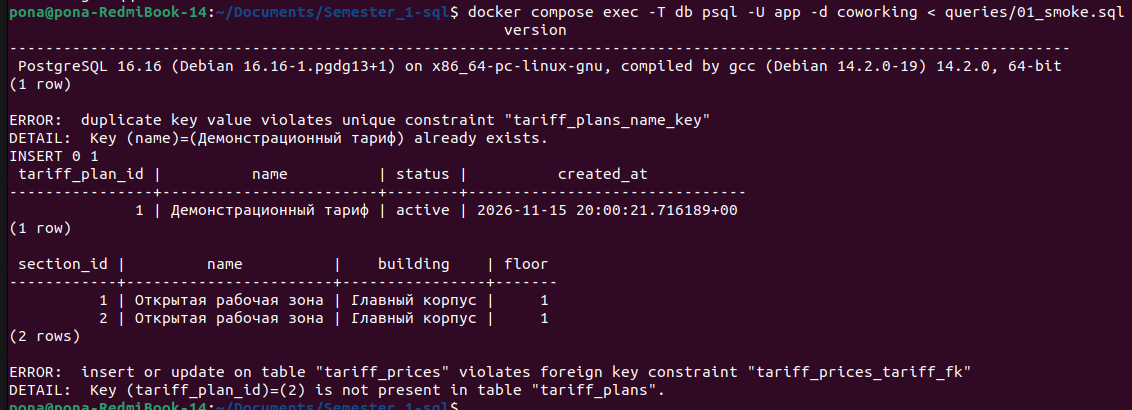
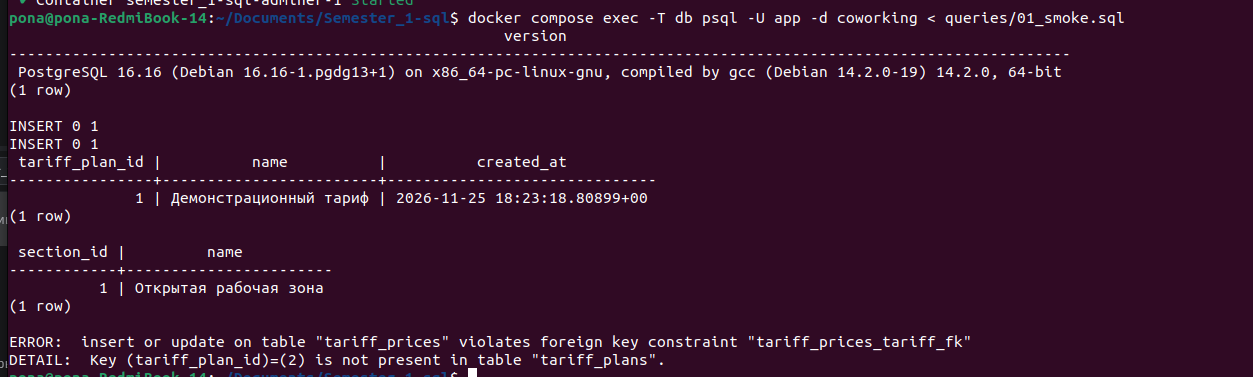
edit lab1

diff --git a/docs/requirements.md b/docs/requirements.md
@@ -19,8 +19,8 @@
 **Шаги:**
 1. Пользователь настраивает фильтры для поиска доступных мест, выбирая дату и время начала и окончания бронирования
 2. Сервис показывает доступные места с учетом выбранных фильтров и стоимость бронирования
-3. Пользователь выбирает место и подтверждает создание заявки на бронирование
-4. Система проверяет, доступно ли еще выбранное место для бронирования, в случае если недоступно - сообщает об этом пользователю и предлагает выбрать другое место для брони, иначе - сценарий переходит к следующему шагу
+3. Пользователь выбирает место и создает заявку на бронирование
+4. Система проверяет, доступно ли еще выбранное место для бронирования, в случае если недоступно - сообщает об этом пользователю и предлагает выбрать другое место для брони, возвращая новый список с учетом выставленных пользователем фильтров, иначе - сценарий переходит к следующему шагу
 5. Сервис перенаправляет пользователя на страницу оплаты бронирования и замораживает выбранное место на N минут
 6. Пользователь в течение N минут оплачивает услугу, иначе заморозка выбранного места сбрасывается
 
@@ -72,15 +72,15 @@
 1. Сотрудник находит бронирование клиента
 2. Система показывает сведения о бронировании и статус оплаты
 3. Сотрудник подтверждает приход клиента
-4. Система создаёт посещение, связанное с бронированием, и сохраняет фактические дату и время прихода
-5. При уходе клиента сотрудник открывает посещение и подтверждает уход
-6. Система сохраняет фактические дату и время ухода
+4. Система сохраняет дату и время прихода в бронировании
+5. При уходе клиента сотрудник открывает бронирование и подтверждает уход
+6. Система сохраняет дату и время ухода в бронировании
 
-**Результат:** Посещение клиента зарегистрировано, фактическое время прихода и ухода сохранено.
+**Результат:** В бронировании сохранены дата и время прихода и ухода клиента.
 
-**Граничный случай — повторная регистрация прихода:** если посещение для бронирования уже существует, система показывает его и не создаёт повторное посещение.
+**Граничный случай — повторная регистрация прихода:** если время прихода в бронировании уже заполнено, система показывает сохранённые данные и не изменяет время прихода.
 
-**Граничный случай — уход клиента не зарегистрирован:** если клиент ушёл из коворкинга, но не зарегистрировал уход у сотрудника ресепшена, по истечении срока бронирования система автоматически заполняет дату и время ухода в существующем посещении датой и временем окончания действия бронирования. Уже зарегистрированное время ухода не изменяется.
+**Граничный случай — уход клиента не зарегистрирован:** если клиент ушёл из коворкинга, но не зарегистрировал уход у сотрудника ресепшена, по истечении срока бронирования система автоматически заполняет дату и время ухода в бронировании датой и временем окончания его действия, только если приход зарегистрирован, а уход не зарегистрирован. Уже зарегистрированное время ухода не изменяется.
 
 ### Сценарий 5. Редактирование списка ролей пользователя
 
@@ -105,18 +105,22 @@
 ## Сущности и атрибуты
 | Сущность | Атрибуты | Предполагаемый ключ | Тип ключа|
 |---|---|---|---|
-| Пользователи | - ID пользователя<br/> - логин пользователя<br/> - ФИО пользователя<br/> - контактные данные пользователя<br/> | ID пользователя| Суррогатный |
+| Пользователи | - ID пользователя<br/> - логин пользователя<br/> - ФИО пользователя<br/> - контактный номер телефона<br/> - электронная почта<br/> | ID пользователя| Суррогатный |
 | Роли| - ID роли<br/> - название роли<br/>| ID роли| Суррогатный|
-| Роли пользователей | - ID роли<br/> - ID пользователя, получившего роль<br/> - ID пользователя, присвоившего роль<br/> - дата начала действия роли<br/> - дата окончания действия роли| ID роли, ID пользователя | Суррогатный|
+| Роли пользователей | - ID назначения роли пользователю (user_role_id)<br/> - ID роли<br/> - ID пользователя, получившего роль<br/> - ID пользователя, присвоившего роль<br/> - дата начала действия роли<br/> - дата окончания действия роли| ID назначения роли пользователю | Суррогатный|
 | Тарифные планы | - ID тарифного плана<br/> - Название тарифного плана<br/> - дата создания тарифного плана | ID тарифного плана| Суррогатный|
-| История изменения цен тарифных планов | - ID записи истории изменения цены<br/> - ID тарифного плана<br/> - цена<br/> - единица измерения цены<br/> - дата и время начала действия цены<br/> - дата и время окончания действия цены<br/> - дата создания записи | ID записи истории изменения цены | Суррогатный |
+| История изменения цен тарифных планов | - ID записи истории изменения цены<br/> - ID тарифного плана<br/> - цена<br/> - единица измерения цены<br/> - дата и время начала действия цены<br/> - дата и время окончания действия цены<br/> - ID пользователя, внесшего цену<br/> - дата создания записи | ID записи истории изменения цены | Суррогатный |
 | Места коворкинга | - ID места коворкинга<br/> - Название места коворкинга<br/> - ID секции коворкинга<br/> - актуальный статус места коворкинга (доступно, закрыто на обслуживание)<br/> - характеристики места (characteristics, JSONB): например, доступное оборудование — {"equipment": ["monitor", "docking_station"]}| ID места коворкинга| Суррогатный|
-| Секции коворкинга | - ID секции коворкинга<br/> - Название секции коворкинга<br/> - Здание коворкинга - Этаж коворкинга | ID секции коворкинга | Суррогатный|
-| Бронирования | - ID бронирования<br/> - ID пользователя<br/> - ID места коворкинга<br/> - начало действия бронирования<br/> - окончание действия бронирования<br/> - статус бронирования (действителен, в ожидании оплаты, отменен)<br/> - итоговая стоимость | ID бронирования | Суррогатный|
+| Секции коворкинга | - ID секции коворкинга<br/> - Название секции коворкинга | ID секции коворкинга | Суррогатный|
+| Бронирования | - ID бронирования<br/> - ID пользователя<br/> - ID места коворкинга<br/> - начало действия бронирования<br/> - окончание действия бронирования<br/> - статус бронирования (действителен, в ожидании оплаты, отменен)<br/> - итоговая стоимость<br/> - дата и время прихода<br/> - дата и время ухода | ID бронирования | Суррогатный|
 | Назначения тарифов местам | - ID назначения<br/> - ID тарифного плана<br/> - ID места коворкинга<br/> - дата и время начала действия назначения<br/> - дата и время окончания действия назначения<br/> - ID пользователя, назначившего тариф<br/> - дата создания назначения | ID назначения | Суррогатный |
 | Назначения тарифов секциям | - ID назначения<br/> - ID тарифного плана<br/> - ID секции коворкинга<br/> - дата и время начала действия назначения<br/> - дата и время окончания действия назначения<br/> - ID пользователя, назначившего тариф<br/> - дата создания назначения | ID назначения | Суррогатный |
 | Платежи | - ID платежа<br/> - ID бронирования<br/> - сумма платежа<br/> - статус платежа<br/> - дата создания платежа<br/> - дата успешной оплаты (при наличии) | ID платежа | Суррогатный |
-| Посещения | - ID посещения<br/> - ID бронирования<br/> - фактическая дата и время прихода<br/> - фактическая дата и время ухода (при наличии) | ID посещения | Суррогатный |
+
+Альтернативные ключи:
+
+- Роли пользователей — сочетание ID роли и ID пользователя, получившего роль (`role_id`, `user_id`).
+- Места коворкинга — сочетание названия места и ID секции (`name`, `section_id`).
 
 ## Связи и кардинальности
 Сущности "пользователи" и "роли" связаны с помощью сущности "роли пользователей" отношением M:N - у одного пользователя может быть несколько ролей и роль может одновременно принадлежать нескольким пользователям. Пользователь не может существовать без наличия какой-либо роли, роль в свою очередь может существовать без привязки к пользователю.
@@ -129,16 +133,18 @@
 
 Сущности «тарифный план» и «источрия изменения цен тарифных планов» связаны отношением 1:N. Тарифный план может существовать без цены, но бронирование нельзя создать на место, к которому прикреплен тарифный план без цены.
 
-Сущности "Посещения" и "Бронирования" связаны отношением 1:1, так как одно и то же посещение относится только к одному бронированию и 2 посещения на одно бронирования невозможно. Сущность посещение не может существовать без сущности бронирования, в то время как бронирование может существовать без наличия посещения.
+Сущности «Пользователи» и «История изменения цен тарифных планов» связаны отношением 1:N: пользователь может внести несколько записей о ценах или ни одной, каждая запись обязательно относится к одному пользователю, внёсшему цену (assigned_by).
 
 ## Бизнес-правила и ограничения
 1. Стоимость тарифного плана не может быть отрицательной
-2. Одновременно для одного тарифного плана не может действовать более 1 цены
-3. Не может существовать два и более тарифных плана с одинаковым названием
-4. Не может существовать два назначения тарифного плана секции или месту в коворкинге с пересекающимся периодом действия; однако может присутствовать пересечение периода действия тарифного плана А места в коворкинге с тарифным планом B секции, которой принадлежит данное место - в таком случае приоритетным является тарифный план места в коворкинге
-5. Не может существовать два пересекающихся бронирования одного и того же места в коворкинге
-6. Не может существовать два места в коворкинге в пределах одной секции с одинаковым названием
-7. Изменение цены тарифного плана не влияет на стоимость бронирований, созданных до ее изменения
+2. Одновременно для одного тарифного плана не может действовать более 1 цены.
+3. Изменение цены тарифного плана не влияет на стоимость бронирований, созданных до ее изменения
+4. Не может существовать два и более тарифных плана с одинаковым названием
+5. Не может существовать два назначения тарифного плана секции или месту в коворкинге с пересекающимся периодом действия; однако может присутствовать пересечение периода действия тарифного плана А места в коворкинге с тарифным планом B секции, которой принадлежит данное место - в таком случае приоритетным является тарифный план места в коворкинге
+6. Не может существовать два пересекающихся бронирования одного и того же места в коворкинге
+7. Не может существовать два места в коворкинге в пределах одной секции с одинаковым названием
+8. У пользователя должны быть заданы контактные данные: либо номер телефона, либоб email, либо оба
+9. Одну и ту же роль нельзя повторно назначить одному и тому же пользователю; сочетание ID роли и ID получателя уникально.
 
 ## Профиль нагрузки
 - работа с бронированием, оплатой является нагрузкой с типом OLTP - короткие транзакции
@@ -162,7 +168,7 @@
 - Безопасность
   - клиенту доступна информация только собственной учетной записи, а также история собственных бронирований и оплат
   - клиент может просматривать занятость мест на выбранный период времени без доступа к персональным данным клиентов, осуществивших бронирование
-  - сотруднику ресепшена доступны ФИО и контактные данные клиентов, а также подробная информация об их бронированиях, посещениях и истории оплаты
+  - сотруднику ресепшена доступны ФИО и контактные данные клиентов, а также подробная информация об их бронированиях, времени прихода и ухода и истории оплаты
   - администратору доступны данные учётных записей пользователей, необходимые для управления ролями и правами доступа
   - система должна проверять права доступа при каждом запросе
   - пароли не должны храниться в открытом или обратимо зашифрованном виде

diff --git a/README.md b/README.md
@@ -51,9 +51,11 @@
 
 # Smoke-тест
 Успешный тест:
+
 ![success.png](images/success.png)
 
 Повторный тест с некорректным внешним ключом:
+
 ![fail.png](images/fail.png)
 
 # Декларация использования ИИ
